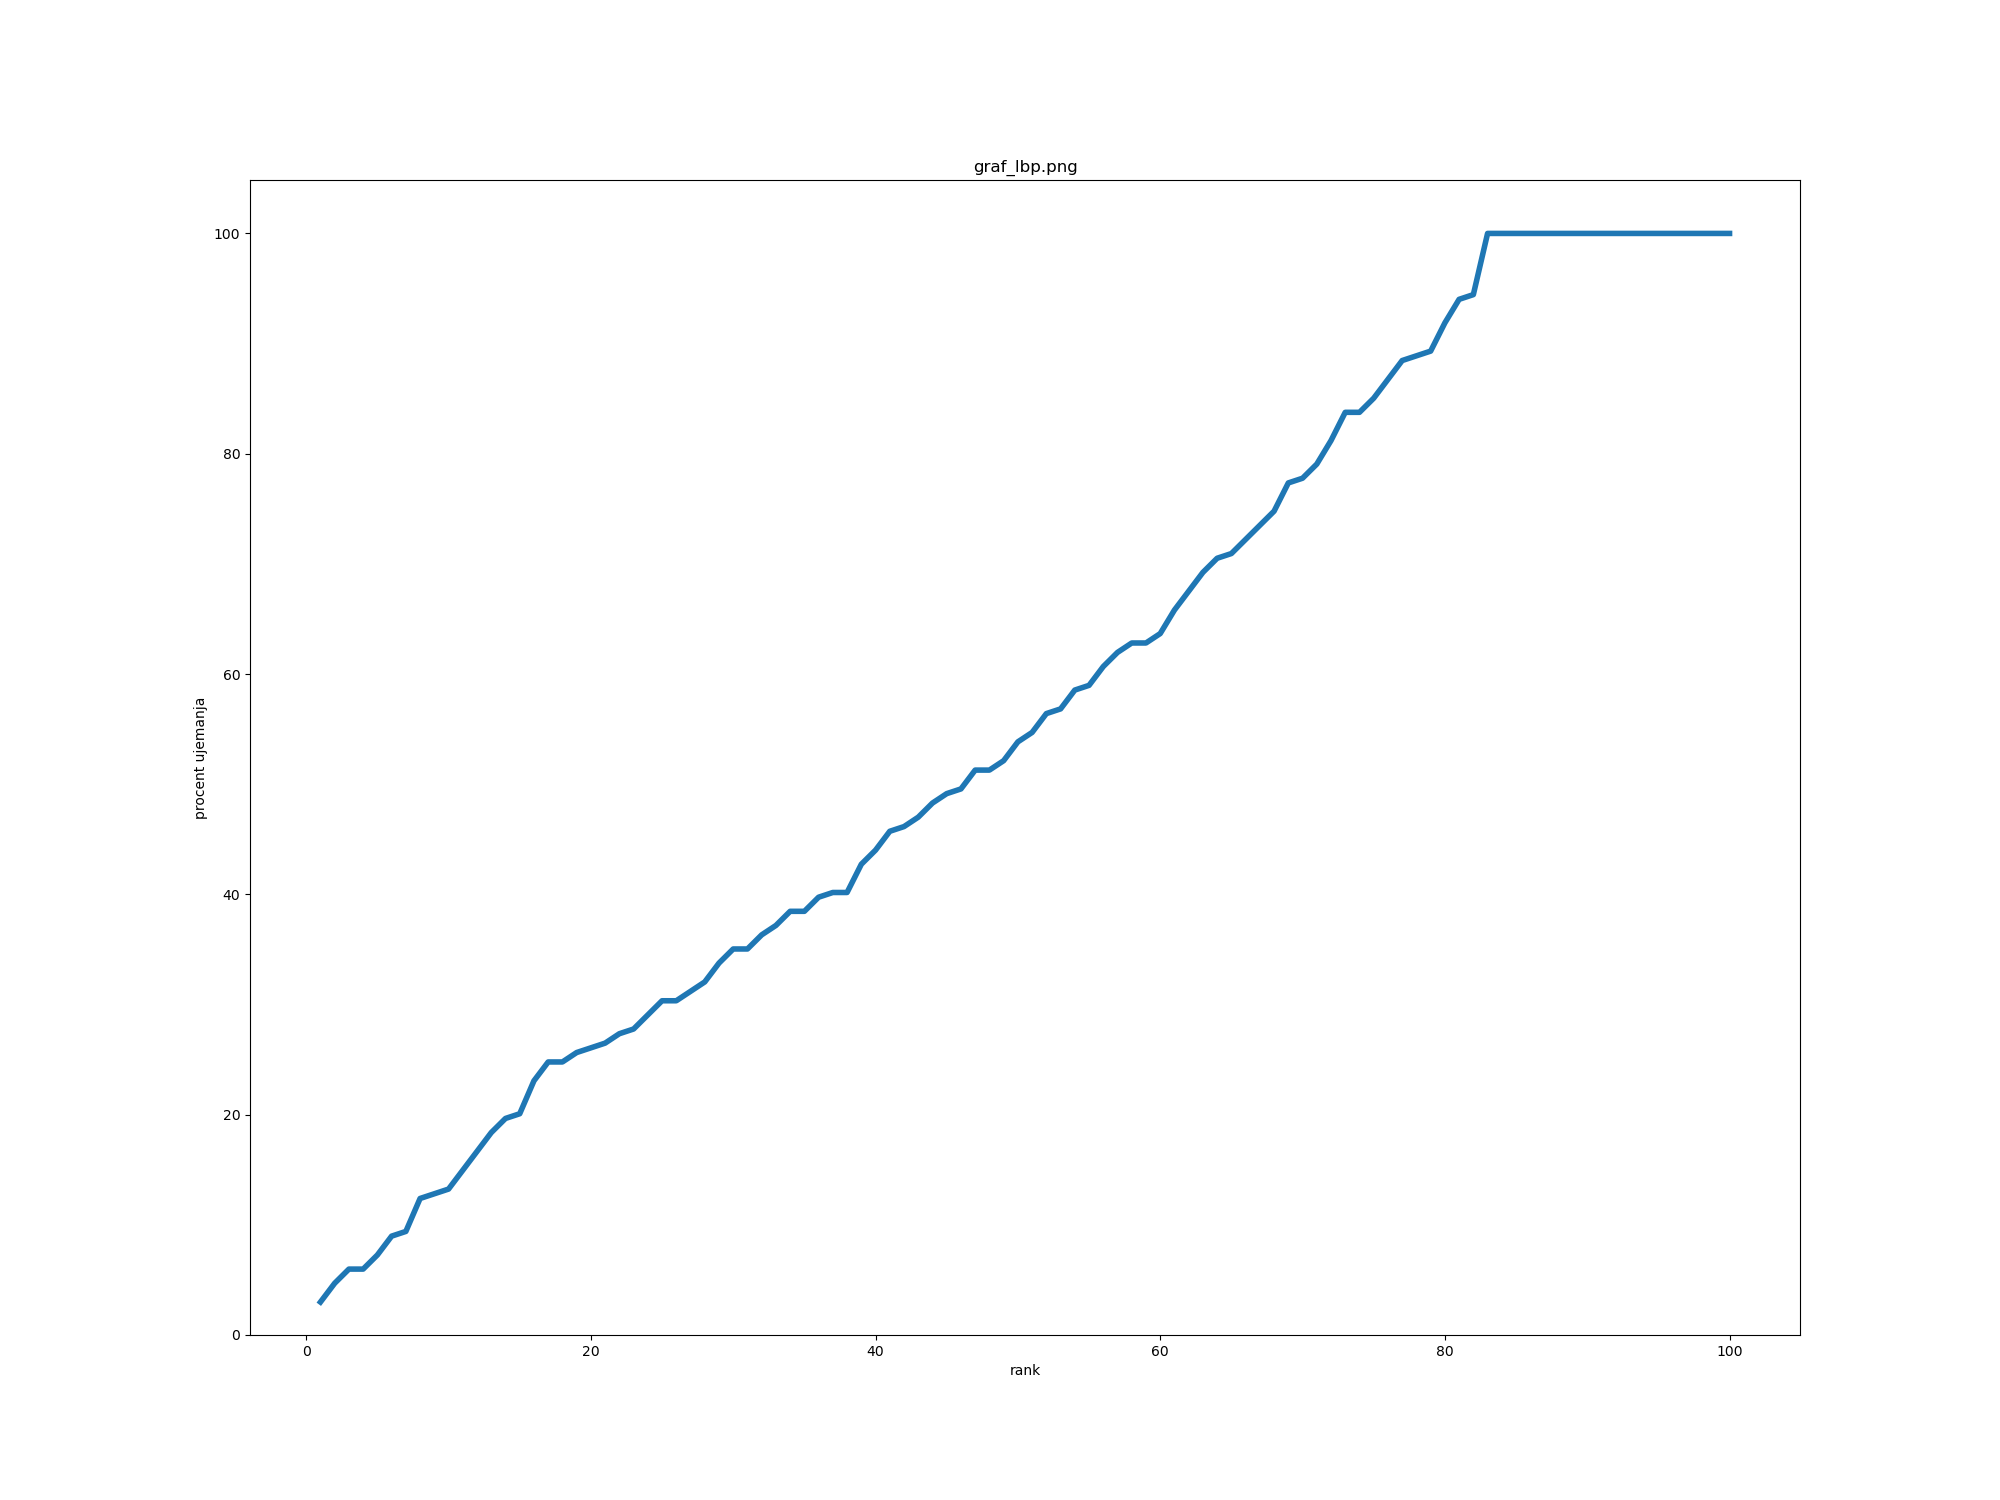
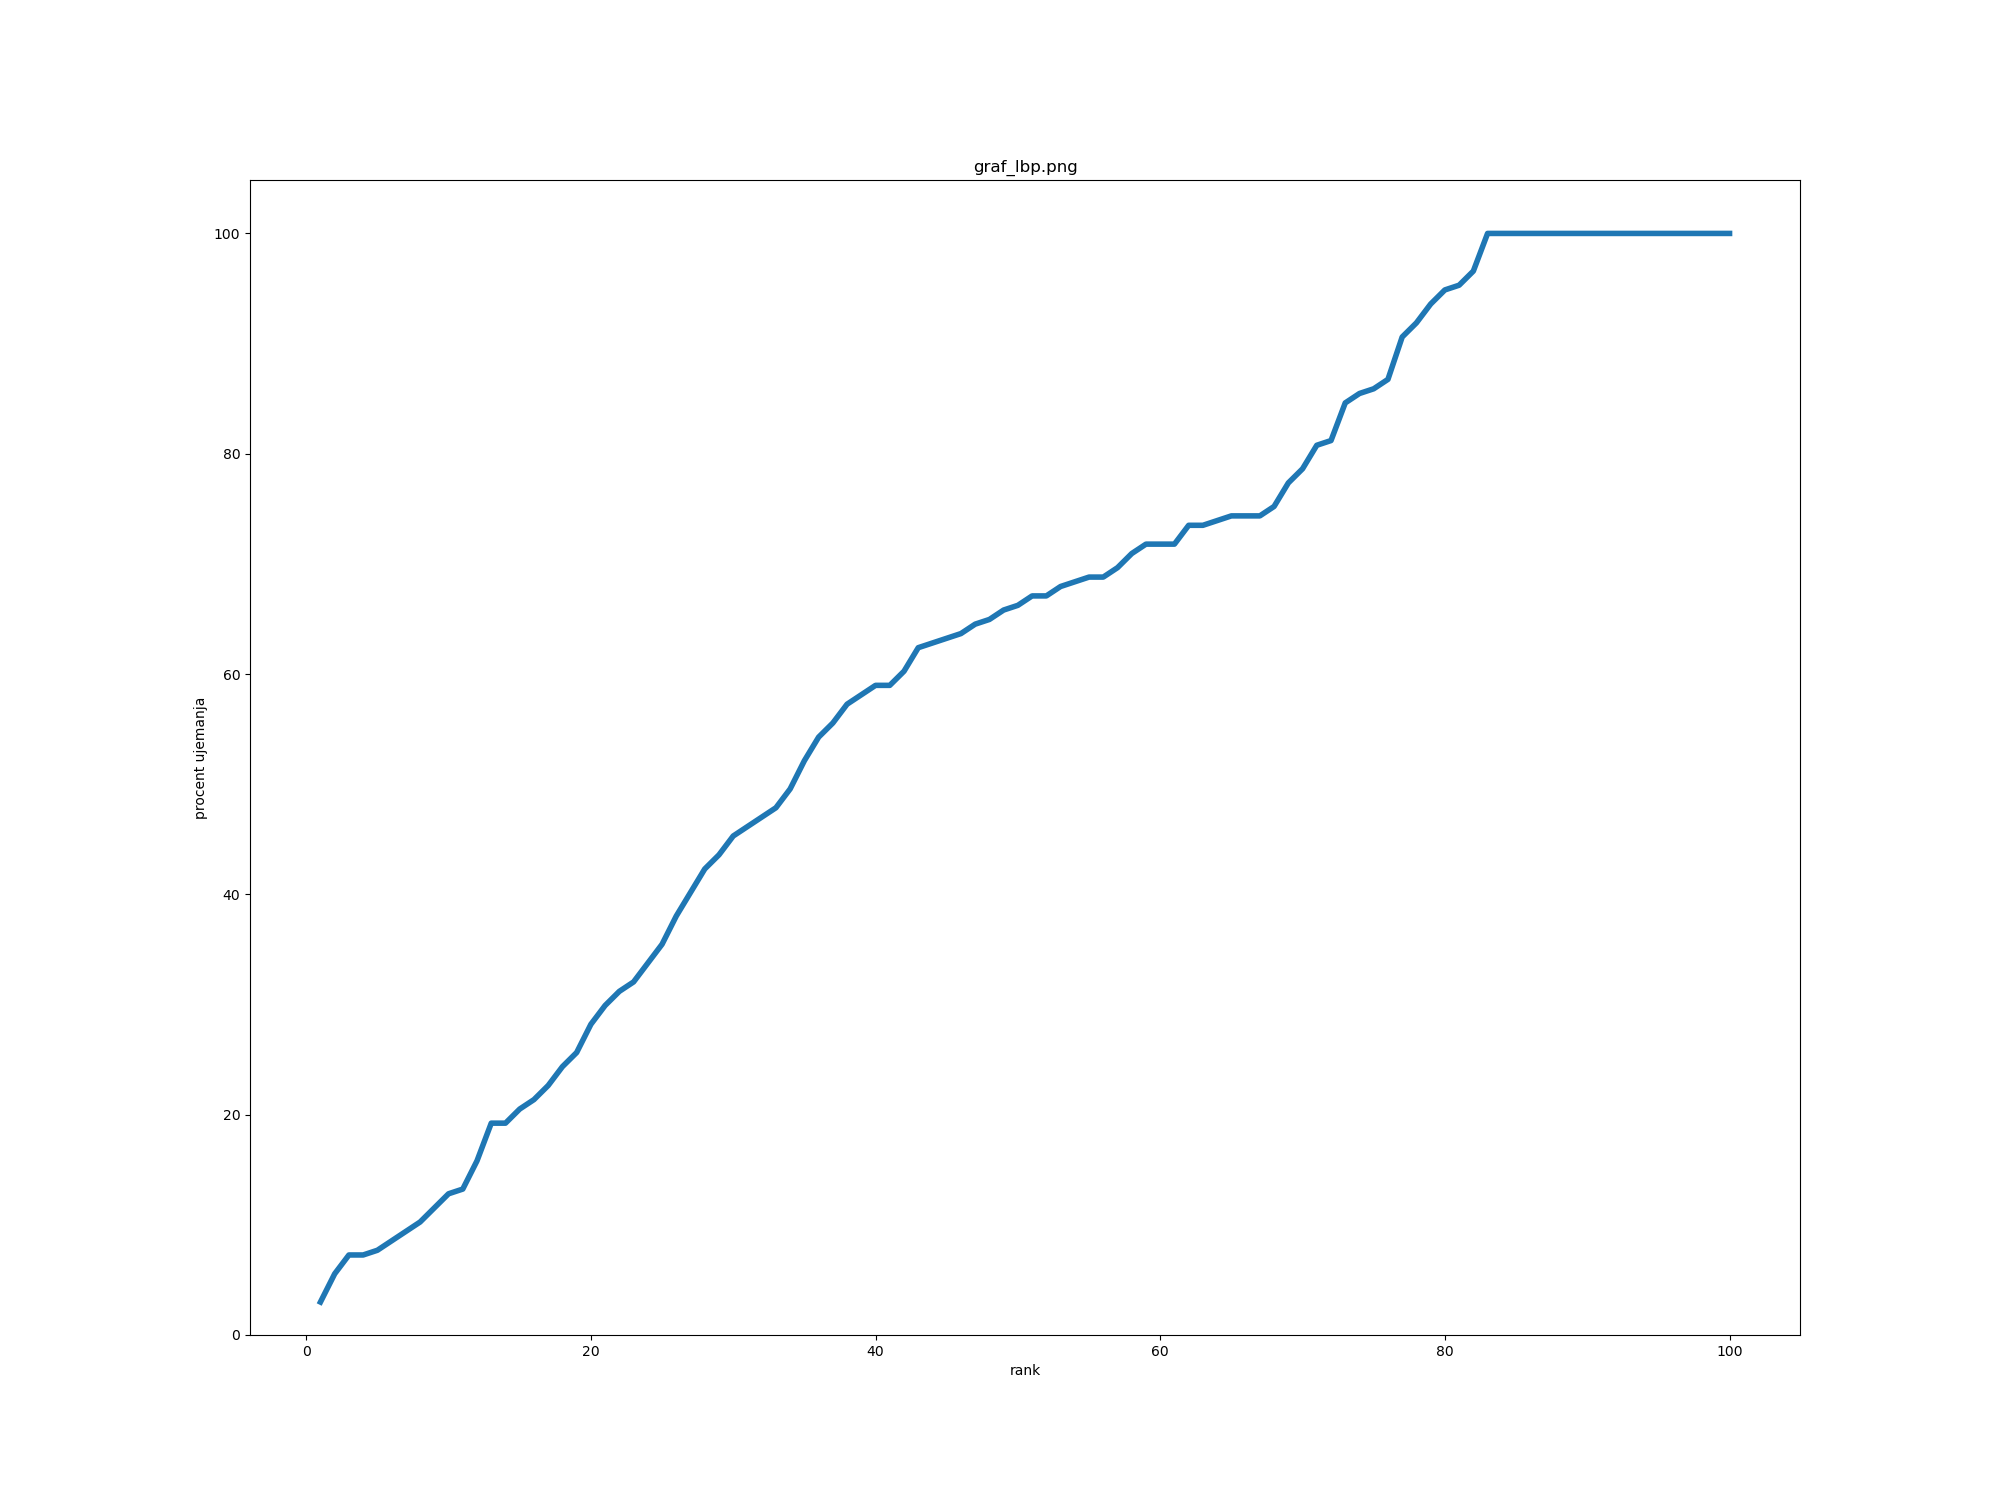
f

diff --git a/SB_task3/run_recognition_evaluation.py b/SB_task3/run_recognition_evaluation.py
@@ -55,8 +55,10 @@ class EvaluateAll:
         pix2pix = p2p_ext.Pix2Pix(resize)
         
         #lbp extractor
+        num_points = 8
+        radius = 3
         import feature_extractors.lbp.extractor as lbp_ext
-        lbp = lbp_ext.LBP(resize,24,8,1e-7)
+        lbp = lbp_ext.LBP(resize,num_points,radius,1e-7)
         
         #hog extractor
         import feature_extractors.hog.extractor as hog_ext
@@ -101,14 +103,14 @@ class EvaluateAll:
         Y_plain_lbphog = cdist(lbphog_features_arr, lbphog_features_arr, mera_razdalje)
         #print(Y_plain)
         #print(y)
-        r1 = eval.compute_rank1(Y_plain, y)
-        print('Pix2Pix Rank-1[%]', r1)
-        r1_lbp = eval.compute_rank1(Y_plain_lbp, y)
-        print('LBP Rank-1[%]', r1_lbp)
-        r1_hog = eval.compute_rank1(Y_plain_hog, y)
-        print('HOG Rank-1[%]', r1_hog)
-        r1_lbphog = eval.compute_rank1(Y_plain_lbphog, y)
-        print('LBPHOG Rank-1[%]', r1_lbphog)
+        #r1 = eval.compute_rank1(Y_plain, y)
+        #print('Pix2Pix Rank-1[%]', r1)
+        #r1_lbp = eval.compute_rank1(Y_plain_lbp, y)
+        #print('LBP Rank-1[%]', r1_lbp)
+        #r1_hog = eval.compute_rank1(Y_plain_hog, y)
+        #print('HOG Rank-1[%]', r1_hog)
+        #r1_lbphog = eval.compute_rank1(Y_plain_lbphog, y)
+        #print('LBPHOG Rank-1[%]', r1_lbphog)
         
         razredi_po_slikah_pix = eval.rankc_for_plot(Y_plain,y)
         razredi_po_slikah_lbp = eval.rankc_for_plot(Y_plain_lbp,y)
